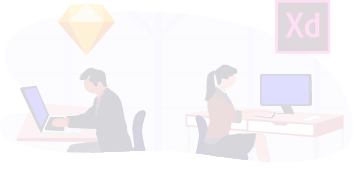
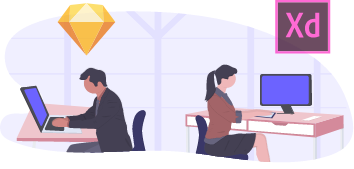
updating page 2

diff --git a/project1.html b/project1.html
@@ -62,16 +62,16 @@
                 <p class="character-style-2" style="color:#9672FB">Rajiv Gandhi</p>
                 <p class="character-style-2">Housing Corporation Limited</p>
             </div>
-            <div class="col-sm-6 verticallyCenter d-none d-sm-block" style="padding: 2%; margin-top: -12%;">
-                <img src='./images/Mask.png' class="img-fluid" alt="Illustration" />
+            <div class="col-sm-6 verticallyCenter d-none d-sm-block" style="padding: 2%; margin-top: -5%;">
+                <img src='./images/project1UXIllustartion.png' class="img-fluid" alt="Illustration" />
             </div>
-            <div class="verticallyCenter d-sm-none d-md-none d-lg-none d-xl-none" style="padding: 2%; margin-top: 10%;">
+            <div class="verticallyCenter d-sm-none d-md-none d-lg-none d-xl-none" style="padding: 2%; margin-top: 0%;">
                 <br />
                     <p class="character-style-2" style="color: #9672FB">Rajiv Gandhi</p>
                     <p class="character-style-2">Housing Corporation Limited</p>
                 <br />
                 <div class="col-sm-6" style="padding: 2%; margin-top: -5%;">
-                    <img src='./images/Mask.png' class="img-fluid" alt="Illustration" />
+                    <img src='./images/project1UXIllustartion.png' class="img-fluid" alt="Illustration" />
                 </div>
             </div>
         </div>
@@ -89,10 +89,10 @@
                 <br />
                 <button type="button" class="btn btn-lg" style="background: #000; color: #fff; font-size:14px; padding: 1%; padding-left: 10%; padding-right: 10%; border-radius: 30px;">View</button>
             </div>
-            <div align="center" class="col-sm-6 verticallyCenter d-none d-sm-block" style="padding: 2%; margin-top: 5%;">
+            <div align="center" class="uiHover col-sm-6 d-none d-sm-block" style="padding: 2%; margin-top: 5%;">
                 <img src='./images/ui.png' class="img-fluid" alt="Illustration" />
                 <br /><br />
-                <p class="h1" style="font-weight: 900; opacity: 0.5; margin-top: 4%;">UI</p>
+                <p class="h1" style="font-weight: 900; margin-top: 4%;">UI</p>
                 <br />
                 <button type="button" class="btn btn-lg" style="background: #000; color: #fff; font-size:14px; padding: 1%; padding-left: 10%; padding-right: 10%; border-radius: 30px;">View</button>
             </div>
@@ -103,7 +103,7 @@
                 <br />
                 <button type="button" class="btn btn-lg btn-block" style="background: #000; color: #fff; font-size:14px; padding: 1%; padding-left: 10%; padding-right: 10%; border-radius: 30px;">View</button>
             </div>
-            <div align="center" class="col-sm-12 d-sm-none d-md-none d-lg-none d-xl-none" style="padding: 2%; margin-top: 5%;">
+            <div align="center" class="uiHover col-sm-12 d-sm-none d-md-none d-lg-none d-xl-none" style="padding: 2%; margin-top: 5%;">
                 <img src='./images/ui.png' class="img-fluid" alt="Illustration" />
                 <br /><br />
                 <p class="h1" style="font-weight: 900;">UI</p>
@@ -136,6 +136,24 @@
                 <p>
                     The aim of this project was to make the buying process smoother. The home buyers no longer have to go agent or middle man for availability of their house. And also to improve the transparency between government and the citizens.This meant that we needed to design an application that was simple and intuitive to use, culturally appropriate, and written in plain language while still understandable without reading.
                 </p>
+            </div>
+        </div>
+        <div class="row" style="padding: 3%; margin-left: 5%; margin-right: 5%">
+            <div class="col-sm-4 d-none d-sm-block" style="padding: 2%;">
+            </div>
+            <div class="col-sm-4 d-none d-sm-block" style="padding: 2%;">
+                <img src='./images/processTitle.png' class="img-fluid" alt="Illustration" /> 
+            </div>
+            <div class="col-sm-12 d-sm-none d-md-none d-lg-none d-xl-none" style="padding: 2%; margin-top: 5%;">
+                <img src='./images/processTitle.png' class="img-fluid" alt="Illustration" /> 
+            </div>
+        </div>
+        <div class="row" style="padding: 4%; margin-left: 5%; margin-right: 5%; margin-top: -10%;">
+            <div class="col-sm-12 d-none d-sm-block">
+                <img src='./images/design_icons.png'style="width: 100%" class="img-fluid" alt="Illustration" /> 
+            </div>
+            <div class="col-sm-12 d-sm-none d-md-none d-lg-none d-xl-none" style="padding: 2%;">
+                <img src='./images/design_icons.png' class="img-fluid" alt="Illustration" /> 
             </div>
         </div>
         <div class="row" style="padding: 3%; margin-left: 5%; margin-right: 5%">
@@ -258,6 +276,172 @@
                 <p>
                     Through user interviews, we found our target users were mothers 25 -35 years with a couple of children and a husband who wanted to buy their own house. The families wanted to get an estimate for how much the home would cost. Currently, the man or woman go to the agent and talk through home design and the cost ,the agent walks them through the options and gives an estimate and the agent may charge money to get the client to agree.
                 </p>
+            </div>
+        </div>
+        <div class="row" style="padding: 3%; margin-left: 5%; margin-right: 5%">
+            <div class="col-sm-6 d-none d-sm-block" style="padding: 2%;">
+                <img src='./images/userPersonaImage.png'style="width: 25%" class="img-fluid" alt="Illustration" /> 
+                <p>
+                    The research made it evident how different users would use the app differently. To cater to this, I categorized them into two user profiles based on their goals and tasks
+                </p>
+            </div>
+            <div class="col-sm-6 d-none d-sm-block" style="padding: 2%;">
+            </div>
+            <div class="col-sm-12 d-sm-none d-md-none d-lg-none d-xl-none" style="padding: 2%; margin-top: 5%;">
+                <img src='./images/userPersonaImage.png' style="width: 50%" class="img-fluid" alt="Illustration" /> 
+                <p>
+                    The research made it evident how different users would use the app differently. To cater to this, I categorized them into two user profiles based on their goals and tasks
+                </p>
+            </div>
+        </div>
+        <div class="row" style="padding: 3%; margin-left: 5%; margin-right: 5%">
+            <div class="col-sm-4 d-none d-sm-block" style="padding: 2%;">
+            </div>
+            <div  class="col-sm-8 d-none d-sm-block" style="padding: 2%;">
+                <p class="subtitle">
+                    Krishna Kumar - Age 68 - Auto Driver
+                </p> 
+                <p>
+                    He is a 68 year old man living with his family in a one-room apartment in the squalid lanes of fazer town in bangalore, he worked at a stainless steel factory earlier and then started driving an auto-rickshaw to make ends meet. krishna kumar has seen some of the harshest realities of life, but that did not deter him from working hard.
+                </p>
+                <table>
+                    <thead>
+                      <tr>
+                        <th scope="col">FRUSTRATIONS-</th>
+                        <th scope="col">GOALS/NEEDS-</th>
+                      </tr>
+                    </thead>
+                    <tbody>
+                      <tr>
+                        <td><ul><li>Space constraints</li></ul></td>
+                        <td><ul><li>Hoping to get one bedroom apartment at low cost</li></ul></td>
+                      </tr>
+                      <tr>
+                        <td><ul><li>Congestion on the road</li></ul></td>
+                        <td><ul><li>To have a secure permanent house for his children</li></ul></td>
+                      </tr>
+                      <tr>
+                        <td><ul><li>Shortage of parking space</li></ul></td>
+                        <td><ul><li>Anxiety-free retired life</li></ul></td>
+                      </tr>
+                    </tbody>
+                  </table>
+            </div>
+            <div class="col-sm-12 d-sm-none d-md-none d-lg-none d-xl-none" style="padding: 2%; margin-top: 5%;">
+                <p class="subtitle">
+                    Krishna Kumar - Age 68 - Auto Driver
+                </p> 
+                <p>
+                    He is a 68 year old man living with his family in a one-room apartment in the squalid lanes of fazer town in bangalore, he worked at a stainless steel factory earlier and then started driving an auto-rickshaw to make ends meet. krishna kumar has seen some of the harshest realities of life, but that did not deter him from working hard.
+                </p>
+                <div class="row" style="padding: 3%; margin-left: 5%; margin-right: 5%">
+                    <div class="col-sm-12" style="padding: 2%;">
+                        <p>
+                            FRUSTRATIONS-
+                        </p>
+                        <ul>
+                            <li>Space constraints</li>
+                            <li>Congestion on the road</li>
+                            <li>Shortage of parking space</li>
+                        </ul>
+                    </div>
+                    <div class="col-sm-12" style="padding: 2%;">
+                        <p>
+                            GOALS/NEEDS-
+                        </p>
+                        <ul>
+                            <li>Hoping to get one bedroom apartment at low cost</li>
+                            <li>To have a secure permanent house for his children</li>
+                            <li>Anxiety-free retired life</li>
+                        </ul>
+                    </div>
+                </div>
+            </div>
+        </div>
+        <div class="row" style="padding: 3%; margin-left: 5%; margin-right: 5%">
+            <div class="col-sm-4 d-none d-sm-block" style="padding: 2%;">
+                <img src='./images/persona2.png' style="width: 30%" class="img-fluid" alt="Illustration" /> 
+            </div>
+            <div  class="col-sm-8 d-none d-sm-block" style="padding: 2%;">
+                <p class="subtitle">
+                    Lakshmi - Age 35 - working woman
+                </p> 
+                <p>
+                    Laksmi is a bereaved woman,who lives with her two children in a shanty house which is in highly populated urban residental area,mostly closely packed, decrepit housing units in a situation of deteriorated or incompleted infrastructure, and she is also running a roadside food stall business to earn just enough money to buy a house.
+                </p>
+                <table>
+                    <thead>
+                      <tr>
+                        <th scope="col">FRUSTRATIONS-</th>
+                        <th scope="col">GOALS/NEEDS-</th>
+                      </tr>
+                    </thead>
+                    <tbody>
+                      <tr>
+                        <td><ul><li>Overcrowded homes</li></ul></td>
+                        <td><ul><li>Hoping to get reliable electricity</li></ul></td>
+                      </tr>
+                      <tr>
+                        <td><ul><li>Sanitation woes</li></ul></td>
+                        <td><ul><li>Supply of clean water</li></ul></td>
+                      </tr>
+                      <tr>
+                        <td><ul><li>Contaminated water</li></ul></td>
+                        <td><ul><li>To have financial and social security</li></ul></td>
+                      </tr>
+                    </tbody>
+                  </table>
+            </div>
+            <div class="col-sm-12 d-sm-none d-md-none d-lg-none d-xl-none" style="padding: 2%; margin-top: 5%;">
+                <p class="subtitle">
+                    Lakshmi - Age 35 - working woman
+                </p> 
+                <p>
+                    Laksmi is a bereaved woman,who lives with her two children in a shanty house which is in highly populated urban residental area,mostly closely packed, decrepit housing units in a situation of deteriorated or incompleted infrastructure, and she is also running a roadside food stall business to earn just enough money to buy a house.
+                </p>
+                <div class="row" style="padding: 3%; margin-left: 5%; margin-right: 5%">
+                    <div class="col-sm-12" style="padding: 2%;">
+                        <p>
+                            FRUSTRATIONS-
+                        </p>
+                        <ul>
+                            <li>Overcrowded homes</li>
+                            <li>Sanitation woes</li>
+                            <li>Contaminated water</li>
+                        </ul>
+                    </div>
+                    <div class="col-sm-12" style="padding: 2%;">
+                        <p>
+                            GOALS/NEEDS-
+                        </p>
+                        <ul>
+                            <li>Hoping to get reliable electricity</li>
+                            <li>Supply of clean water</li>
+                            <li>To have financial and social security</li>
+                        </ul>
+                    </div>
+                </div>
+            </div>
+        </div>
+        <div class="row" style="padding: 3%; margin-left: 5%; margin-right: 5%">
+            <div class="col-sm-4 d-none d-sm-block" style="padding: 2%;">
+            </div>
+            <div  class="col-sm-8 d-none d-sm-block" style="padding: 2%;">
+                <img src='./images/prototypingTitle.png' style="width: 50%" class="img-fluid" alt="Illustration" /> 
+                <p>
+                    I sketched some cards to create a paper prototype to test the user flow and to capture crucial feedback using rapid iterations method from the target users regarding the application's usefulness and usability before diving into the time-consuming and expensive implementation process.
+                </p>
+            </div>
+            <div class="col-sm-12 d-sm-none d-md-none d-lg-none d-xl-none" style="padding: 2%; margin-top: 5%;">
+                <img src='./images/prototypingTitle.png' class="img-fluid" alt="Illustration" /> 
+                <p>
+                    I sketched some cards to create a paper prototype to test the user flow and to capture crucial feedback using rapid iterations method from the target users regarding the application's usefulness and usability before diving into the time-consuming and expensive implementation process.
+                </p>
+            </div>
+        </div>
+        <div class="row" style="padding: 3%; margin-left: 5%; margin-right: 5%">
+            <div class="col-sm-12 d-none d-sm-block" style="padding: 2%;">
+                <img src='./images/img007.png' class="img-fluid" alt="Illustration" />
             </div>
         </div>
         <br />

diff --git a/index.css b/index.css
@@ -204,3 +204,23 @@
   body {
     font-family: 'Montserrat', sans-serif;
   }
+
+  th, td {
+    padding: 5px;
+  }
+
+  .uiHover {
+    opacity: 0.5;
+  }
+
+  .uiHover:hover {
+    opacity: 1;
+  }
+
+  .uxHover {
+    opacity: 0.5;
+  }
+
+  .uxHover:hover {
+    opacity: 1;
+  }
